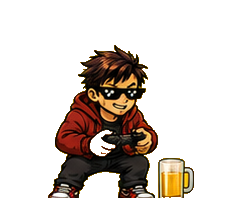
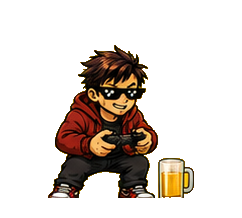
Restore man sprite hands and beer details

Changed region(s): [[0.3471, 0.578, 0.4917, 0.7156]]

diff --git a/tests/test_word_jump_overlay.py b/tests/test_word_jump_overlay.py
@@ -342,6 +342,26 @@ def test_man_sprite_keeps_yellow_beer_in_timer_mugs():
         assert yellow_beer_pixels > minimum_pixels
 
 
+def test_man_sprite_keeps_hands_after_background_cleanup():
+    frames_dir = Path("assets/mascot/man_character_frames")
+    hand_regions = {
+        "00.png": (80, 110, 130, 155),
+        "08.png": (75, 108, 125, 150),
+        "11.png": (80, 108, 125, 150),
+    }
+
+    for frame_name, (left, top, right, bottom) in hand_regions.items():
+        frame = Image.open(frames_dir / frame_name).convert("RGBA")
+        skin_pixels = 0
+        for y in range(top, bottom):
+            for x in range(left, right):
+                red, green, blue, alpha = frame.getpixel((x, y))
+                if alpha > 80 and red > 150 and 80 < green < 190 and blue < 140 and red > blue + 40:
+                    skin_pixels += 1
+
+        assert skin_pixels > 180
+
+
 def test_man_sprite_has_no_yellow_sheet_background_between_legs():
     frames_dir = Path("assets/mascot/man_character_frames")
     for frame_name in ("18.png", "19.png", "20.png", "21.png", "22.png", "23.png"):
